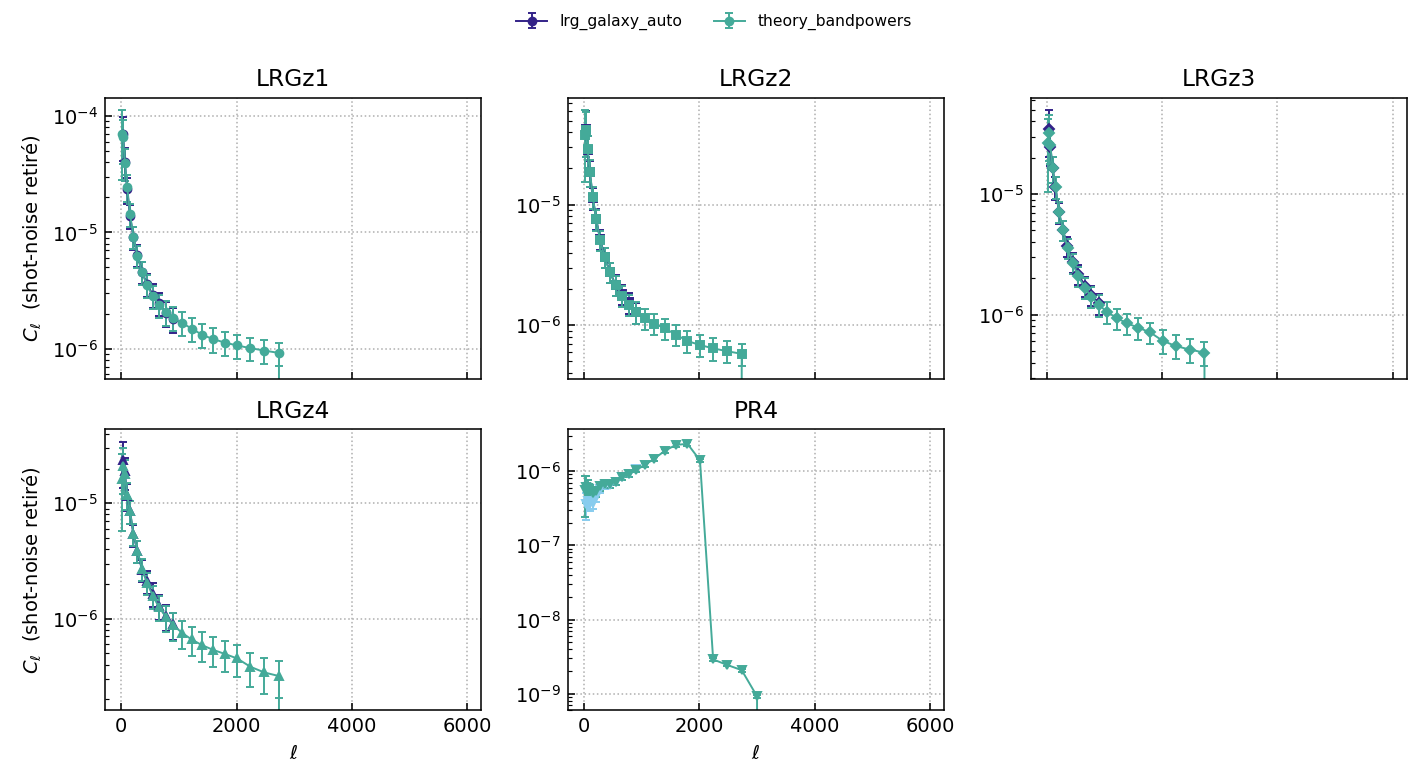
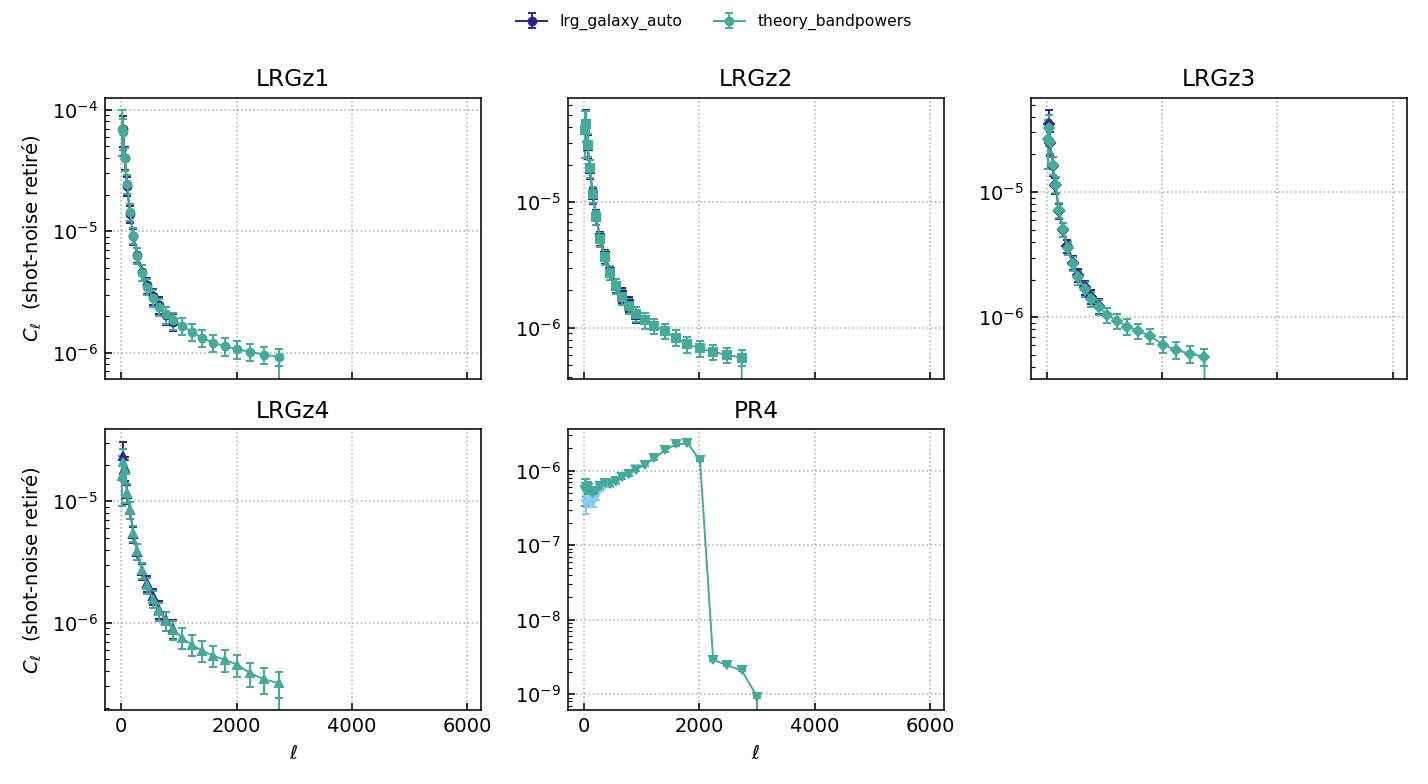
Ajout d'un fichier pour calculer la fraction de ciel, puis correction dans le script pour le calcul des barres d'erreur

diff --git a/maps/compute_fsky.py b/maps/compute_fsky.py
@@ -1,0 +1,10 @@
+import healpy as hp
+import numpy as np
+
+pr4_mask = hp.read_map('masks/PR4_lens_mask.fits')
+lrg_masks = [hp.read_map(f'masks/lrg_s0{i}_msk.hpx2048.public.fits.gz') for i in range(1,5)]
+mask_lrg = np.clip(sum(lrg_masks), 0, 1)
+mask_tot = (pr4_mask>0) & (mask_lrg>0)
+
+f_sky_tot = np.mean(mask_tot)
+print("f_sky total :", f_sky_tot)

diff --git a/spectra/plot_coeffs_auto.py b/spectra/plot_coeffs_auto.py
@@ -18,7 +18,7 @@ COL  = ["#332288","#88CCEE","#44AA99","#117733","#CC6677","#882255"]
 MAR  = ["o","s","D","^","v","P"]
 
 SHOT = dict(LRGz1=4.01e-6, LRGz2=2.24e-6, LRGz3=2.08e-6, LRGz4=2.31e-6)
-FSKY = 0.204         
+FSKY = 0.434         
 
 def read(fn):
     with open(fn) as f:
